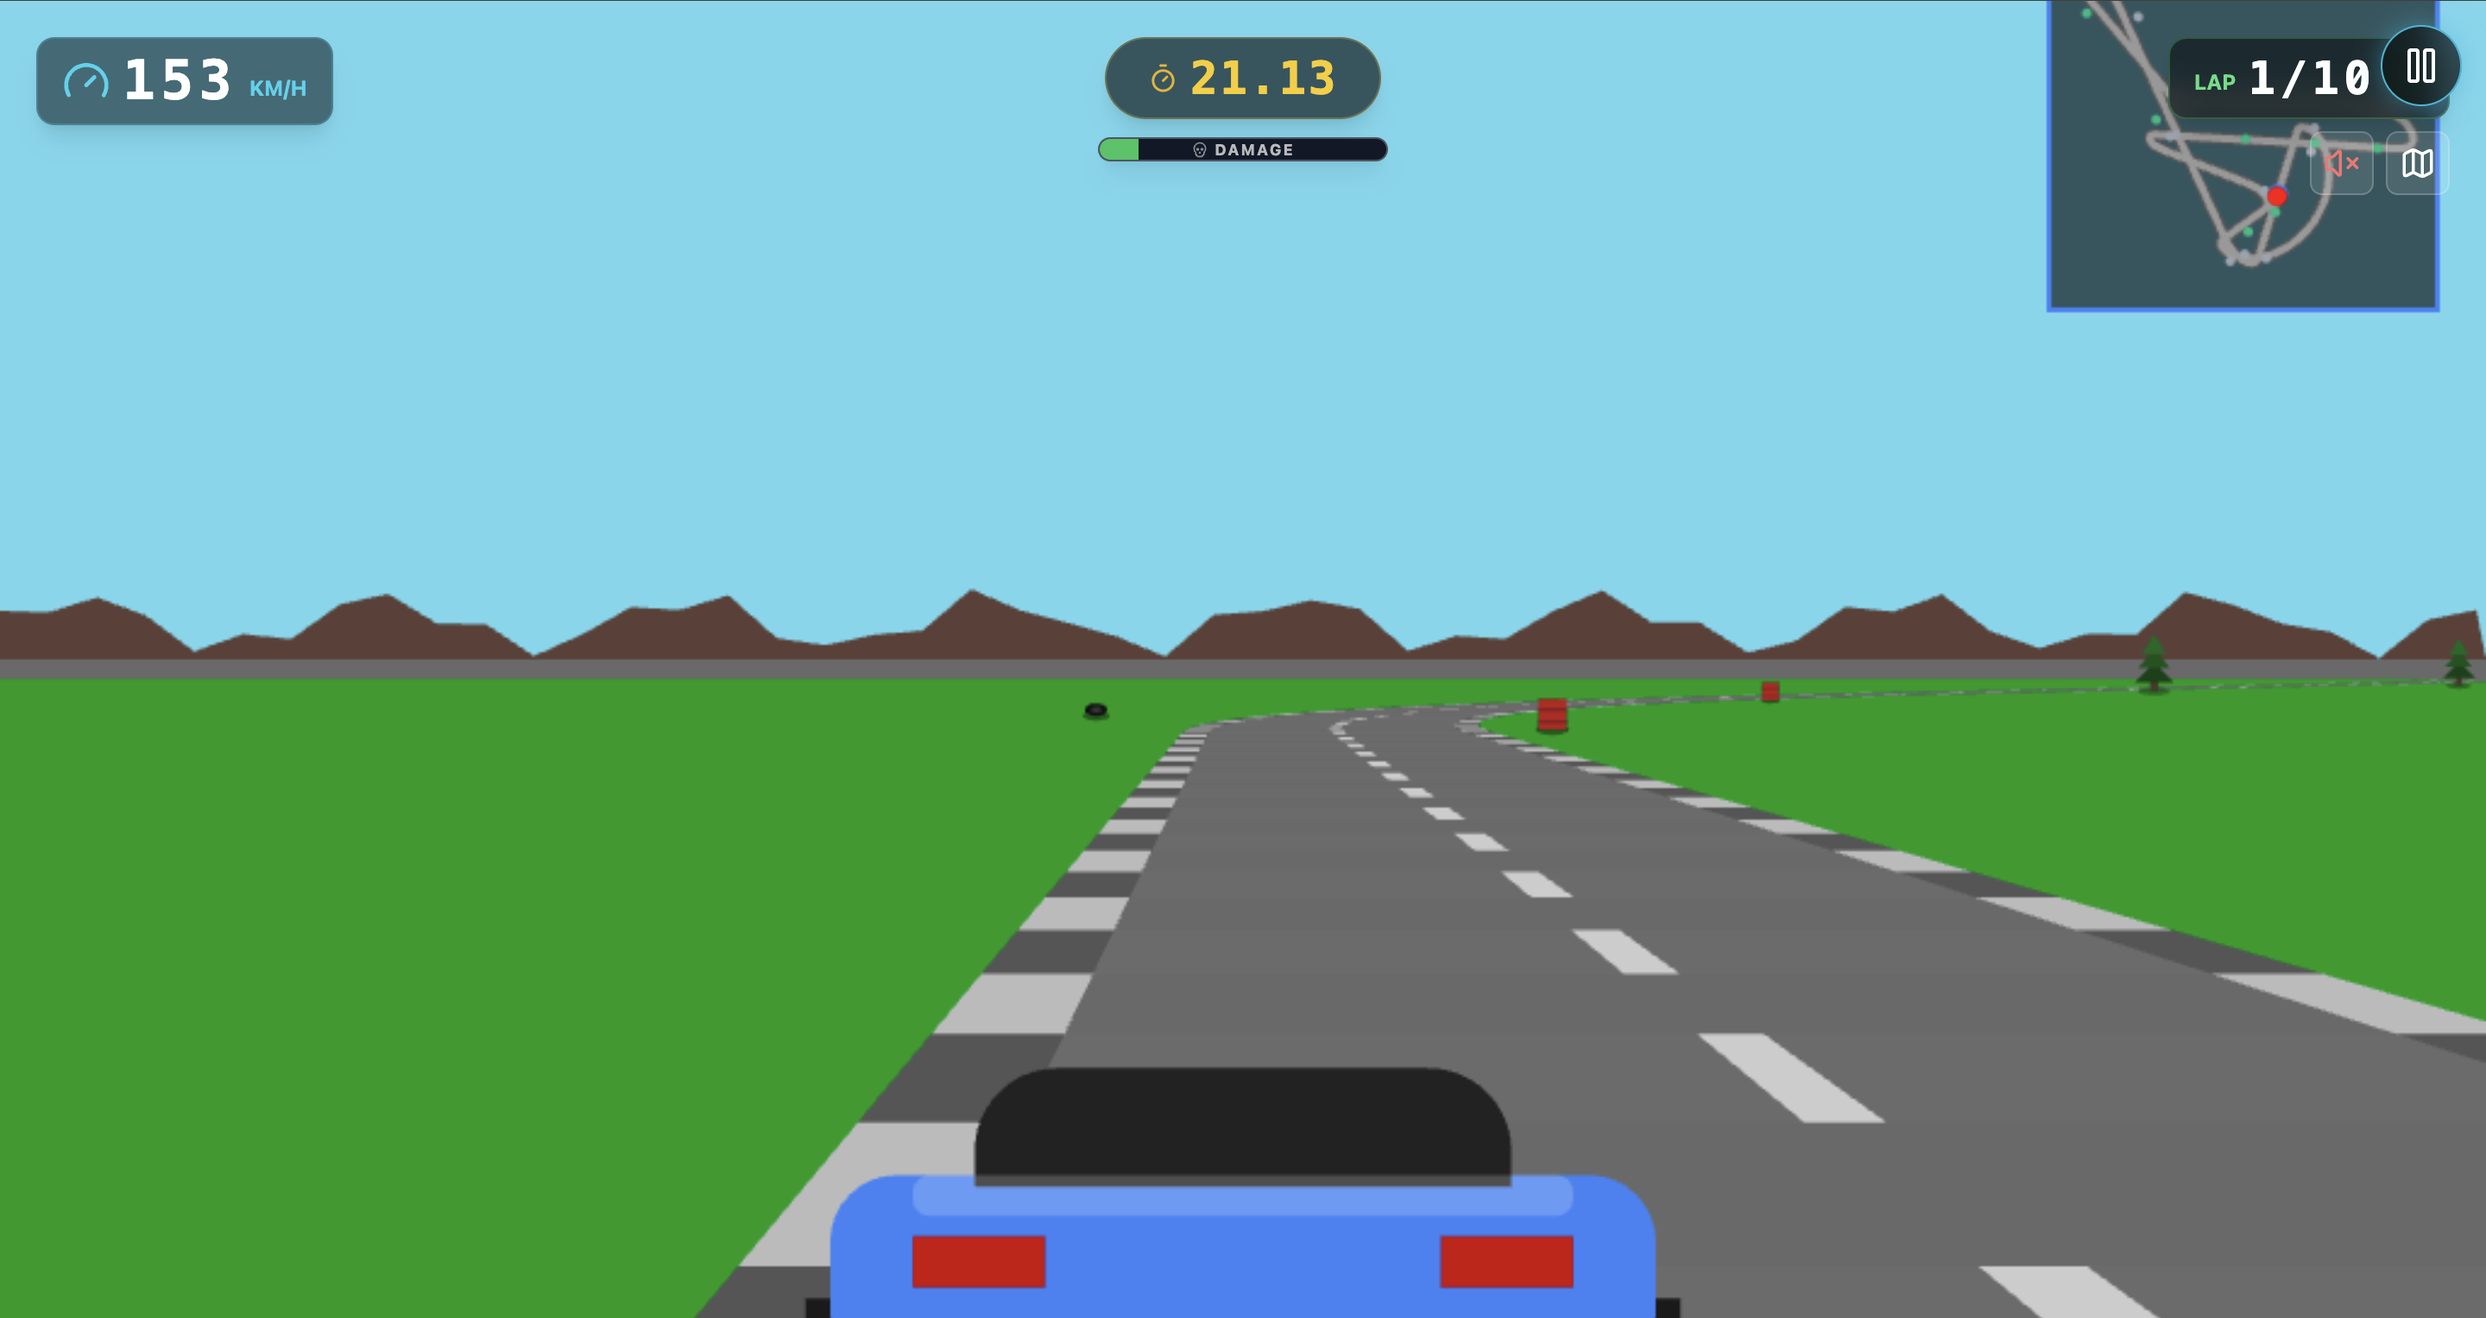
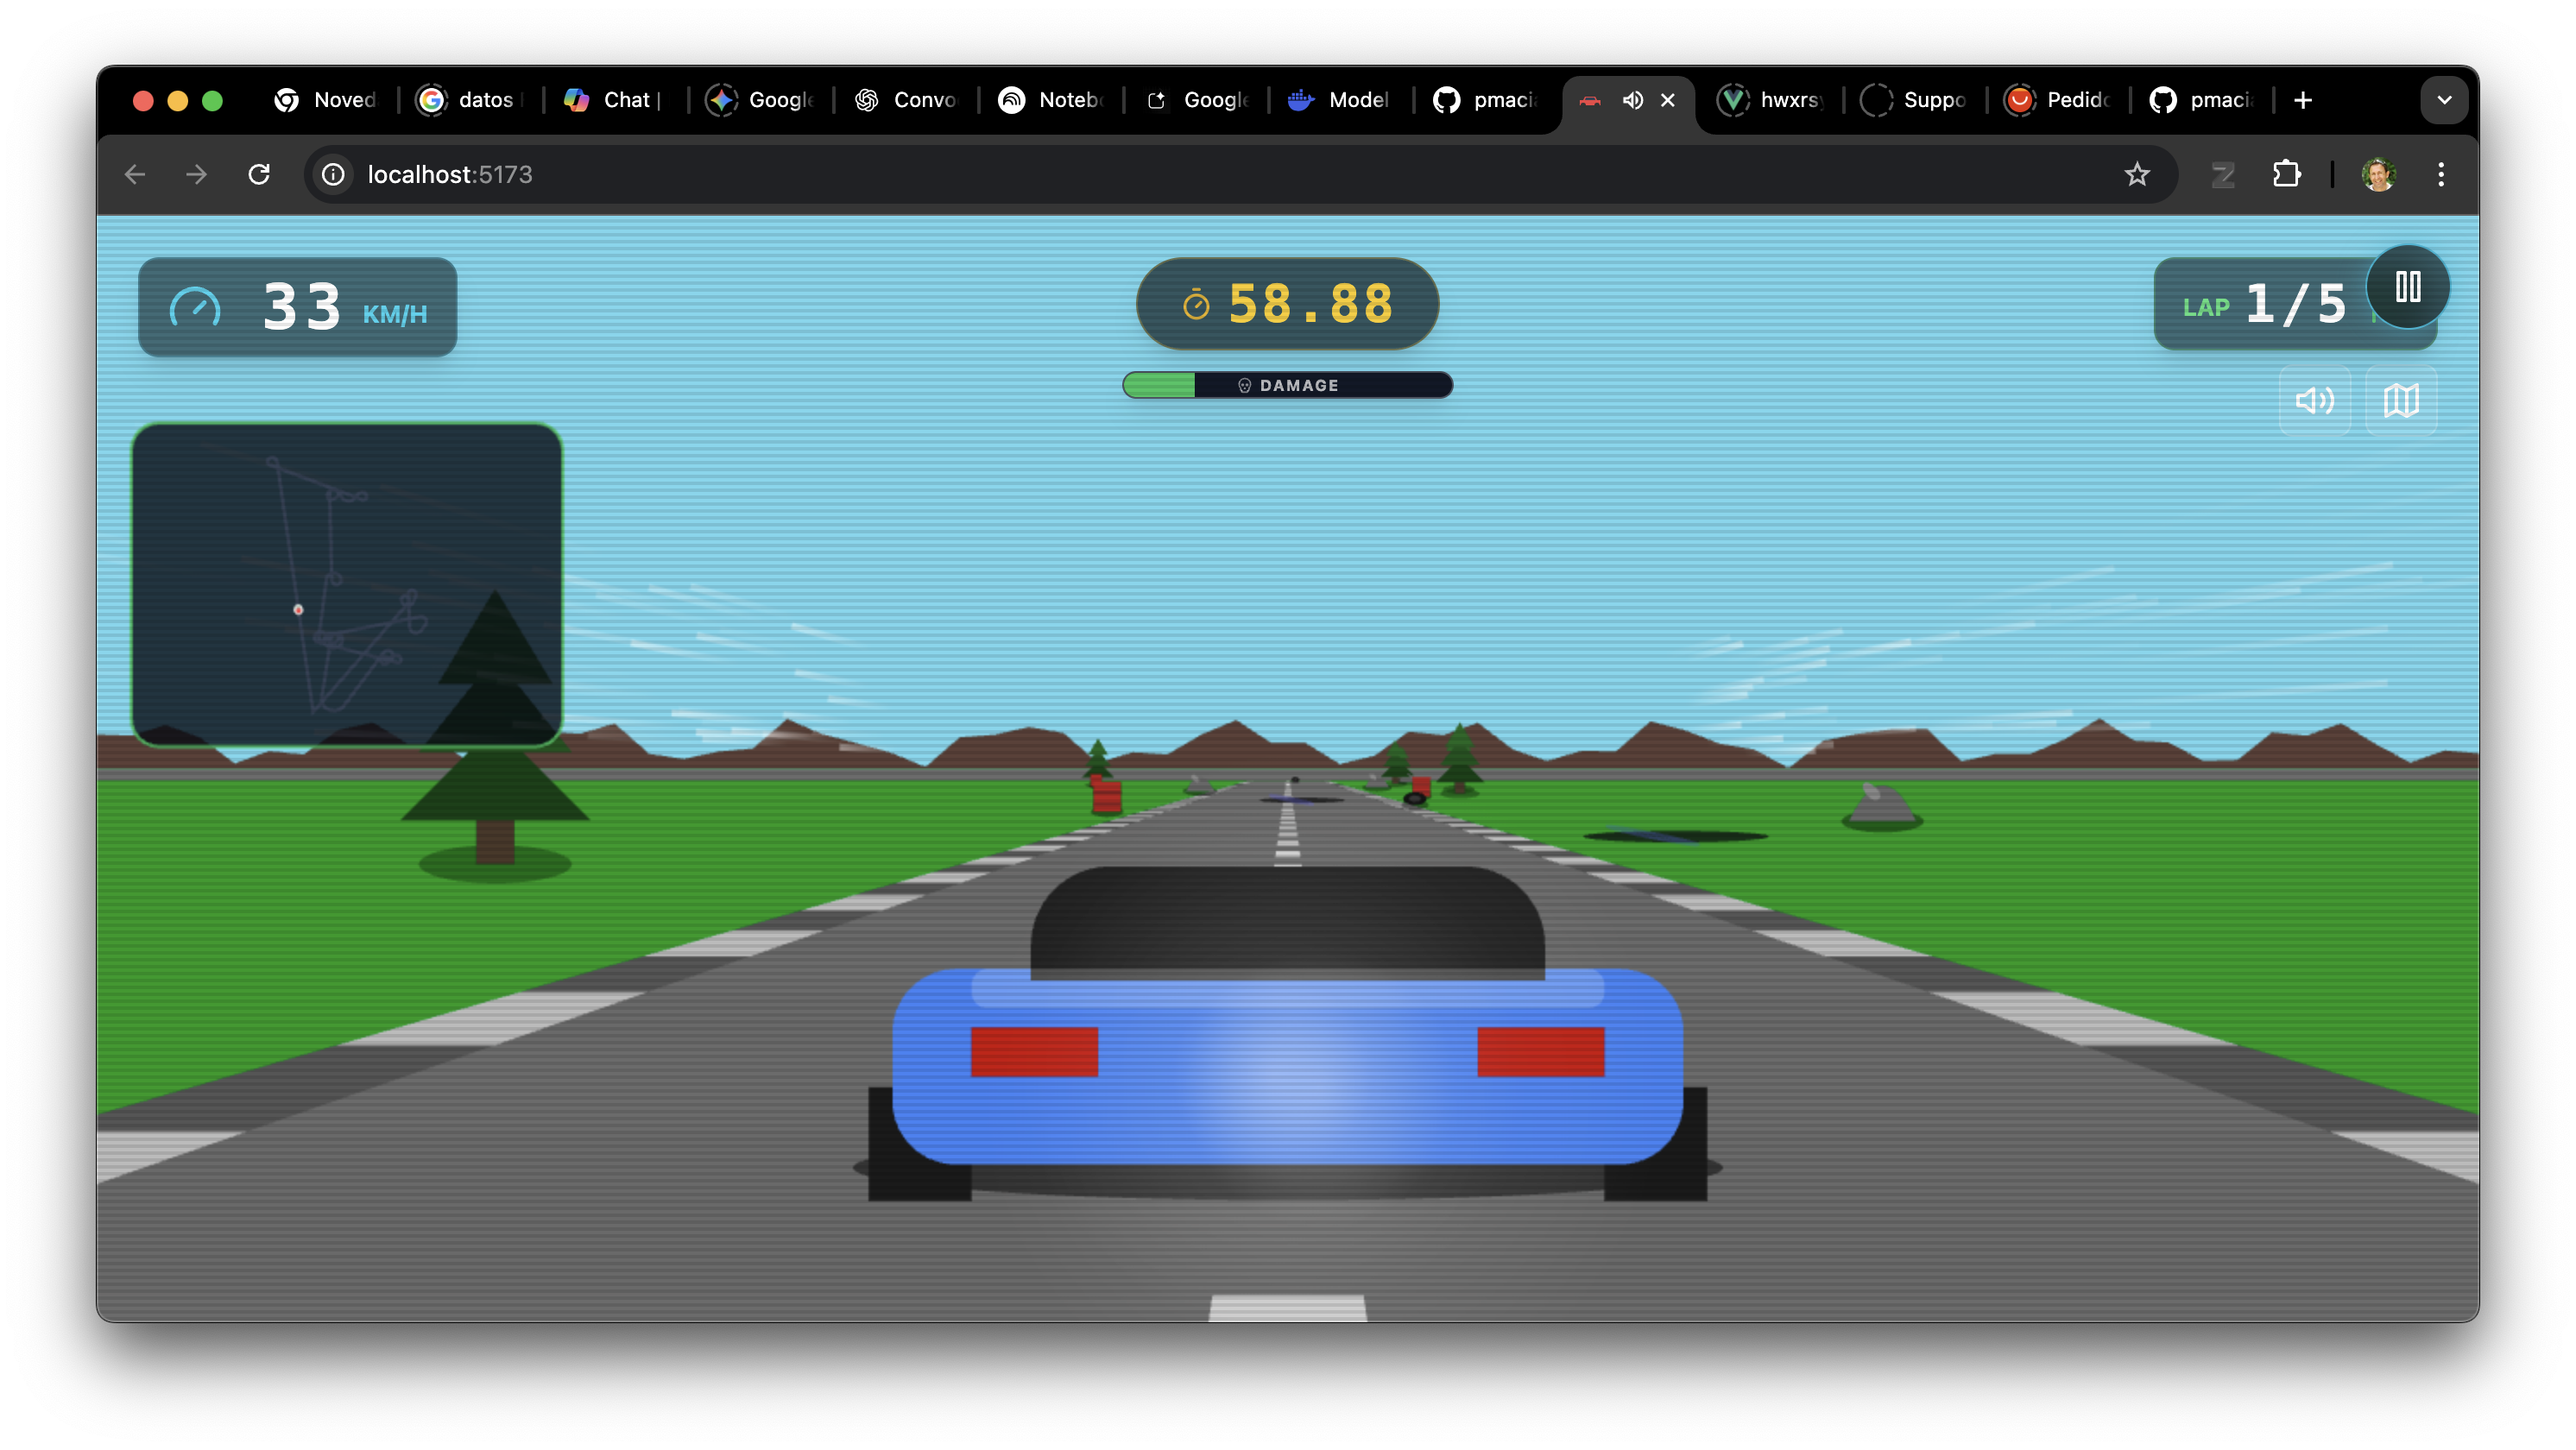
Actualización de la documentación

diff --git a/README.md b/README.md
@@ -75,9 +75,10 @@ Compite contra la IA, completa el número de vueltas seleccionado y cruza la met
 | **Girar Derecha** | `➡` o `D` | Botón ➡ |
 | **Acelerar** | `⬆` o `W` | Botón Verde 🟢 |
 | **Frenar** | `⬇` o `S` | Botón Rojo 🔴 |
-| **Silenciar Audio** | Clic en icono 🔊 | Clic en icono 🔊 |
-| **Alternar Mapa** | Clic en icono 🗺 | Clic en icono 🗺 |
-| **Pausa** | `P` o Botón UI | Botón Pausa |
+| **Silenciar Audio** | Clic icono 🔊 | Clic icono 🔊 |
+| **Alternar Minimapa** | `O` o Clic 🗺 | Clic icono 🗺 |
+| **Pausa / Continuar** | `P` o Botón UI | Botón Pausa |
+| **Cambiar Cámara** | `1`, `2`, `3`, `4` | - |
 
 ### HUD (Interfaz)
 ![HUD Explanation](screenshots/hud.png)
@@ -87,10 +88,14 @@ Compite contra la IA, completa el número de vueltas seleccionado y cruza la met
     *   En **Pantalla Dividida** (tecla `3`): Se muestran dos barras de daño, una para el jugador (izquierda) y otra para el rival (derecha).
 *   **LAP**: Vuelta actual / Total.
 *   **MINIMAPA**: Muestra la posición de los corredores y obstáculos en tiempo real.
-*   **VISTAS DE CÁMARA**:
-    *   **Vista Jugador** (tecla `1`): Sigue tu coche.
-    *   **Vista Rival** (tecla `2`): Sigue al rival de la IA.
-    *   **Pantalla Dividida** (tecla `3`): Muestra ambos coches simultáneamente.
+*   **VISTAS DE CÁMARA** (Teclas `1`-`4` o `Alt` + `1`-`4`):
+    *   **Vista Jugador** (tecla `1`): Cámara clásica tras el coche del jugador.
+    *   **Vista Rival** (tecla `2`): Cámara de seguimiento para el líder de la IA.
+    *   **Pantalla Dividida Vertical** (tecla `3`): Vista lado a lado para Player y CPU.
+    *   **Pantalla Dividida Horizontal** (tecla `4`): Vista arriba y abajo.
+
+> [!TIP]
+> Todos los atajos (`1`-`4`, `O`, `P`) también funcionan manteniendo pulsada la tecla `Alt`.
 
 ---
 
